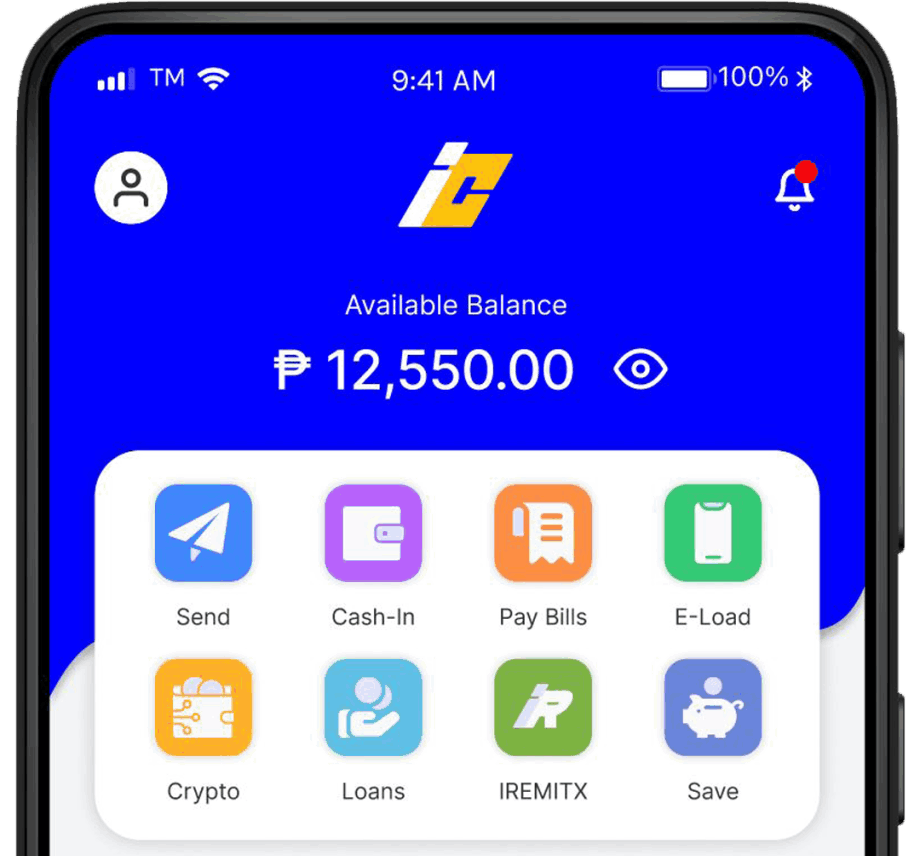
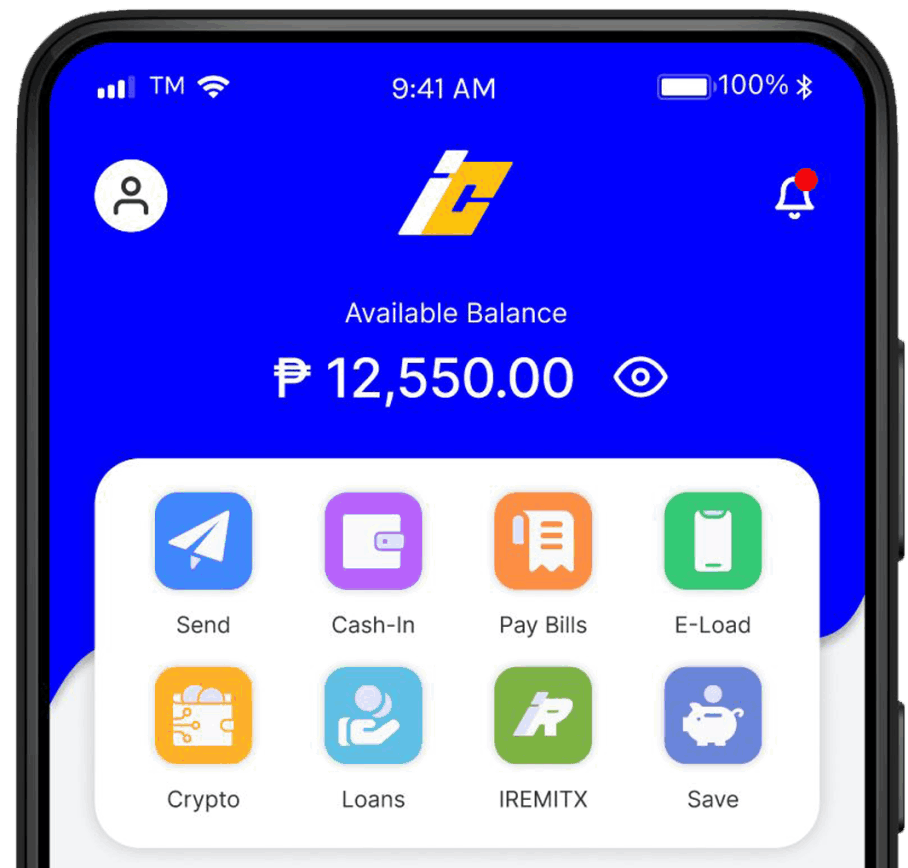
1

diff --git a/ourmerchants.html b/ourmerchants.html
@@ -438,15 +438,15 @@
                     <h2 class="mbr-section-title mbr-fonts-style display-2">
                         Onboarding Process</h2>
                 </div>
-                <div id="bootstrap-accordion_7" class="panel-group accordionStyles accordion" role="tablist" aria-multiselectable="true">
+                <div id="bootstrap-accordion_34" class="panel-group accordionStyles accordion" role="tablist" aria-multiselectable="true">
                     <div class="card">
                         <div class="card-header" role="tab" id="headingOne">
-                            <a role="button" class="panel-title" data-toggle="collapse" data-bs-toggle="collapse" data-core="" href="#collapse1_7" aria-expanded="false" aria-controls="collapse1">
+                            <a role="button" class="panel-title" data-toggle="collapse" data-bs-toggle="collapse" data-core="" href="#collapse1_34" aria-expanded="false" aria-controls="collapse1">
                                 <h4 class="panel-title-edit mbr-fonts-style display-5">Mutual Non-Disclosure Agreement (MNDA)</h4>
                                 <span class="sign mbr-iconfont mobi-mbri-plus mobi-mbri"></span>
                             </a>
                         </div>
-                        <div id="collapse1_7" class="panel-collapse noScroll collapse show" role="tabpanel" aria-labelledby="headingOne" data-parent="#accordion" data-bs-parent="#bootstrap-accordion_7">
+                        <div id="collapse1_34" class="panel-collapse noScroll collapse show" role="tabpanel" aria-labelledby="headingOne" data-parent="#accordion" data-bs-parent="#bootstrap-accordion_34">
                             <div class="panel-body">
                                 <p class="mbr-fonts-style panel-text display-4">Sign the MNDA to ensure confidentiality and secure collaboration between both parties.<br></p>
                             </div>
@@ -454,12 +454,12 @@
                     </div>
                     <div class="card">
                         <div class="card-header" role="tab" id="headingTwo">
-                            <a role="button" class="panel-title collapsed" data-toggle="collapse" data-bs-toggle="collapse" data-core="" href="#collapse2_7" aria-expanded="false" aria-controls="collapse2">
+                            <a role="button" class="panel-title collapsed" data-toggle="collapse" data-bs-toggle="collapse" data-core="" href="#collapse2_34" aria-expanded="false" aria-controls="collapse2">
                                 <h4 class="panel-title-edit mbr-fonts-style display-5">Submit Business Documents</h4>
                                 <span class="sign mbr-iconfont mobi-mbri-plus mobi-mbri"></span>
                             </a>
                         </div>
-                        <div id="collapse2_7" class="panel-collapse noScroll collapse" role="tabpanel" aria-labelledby="headingTwo" data-parent="#accordion" data-bs-parent="#bootstrap-accordion_7">
+                        <div id="collapse2_34" class="panel-collapse noScroll collapse" role="tabpanel" aria-labelledby="headingTwo" data-parent="#accordion" data-bs-parent="#bootstrap-accordion_34">
                             <div class="panel-body">
                                 <p class="mbr-fonts-style panel-text display-4"><strong>Sole Proprietorship</strong><br>- DTI Registration<br>- Government-issued ID<br><br><strong>Partnership and Corporation</strong><br>- SEC Certificate of Incorporation<br>- Articles of Incorporation and By-Laws<br>
 -&nbsp;Specimen of signature or biometrics of the authorized signatures<br>- Latest General Information Sheet<br>-&nbsp;1 Valid government-issued IDs of the authorized signatories, board of directors, ultimate beneficial owners and principal officers<br>-&nbsp;Board or Partner’s Resolution</p>
@@ -468,12 +468,12 @@
                     </div>
                     <div class="card">
                         <div class="card-header" role="tab" id="headingThree">
-                            <a role="button" class="panel-title collapsed" data-toggle="collapse" data-bs-toggle="collapse" data-core="" href="#collapse3_7" aria-expanded="false" aria-controls="collapse3">
+                            <a role="button" class="panel-title collapsed" data-toggle="collapse" data-bs-toggle="collapse" data-core="" href="#collapse3_34" aria-expanded="false" aria-controls="collapse3">
                                 <h4 class="panel-title-edit mbr-fonts-style display-5">Exchange of Reference Materials</h4>
                                 <span class="sign mbr-iconfont mobi-mbri-plus mobi-mbri"></span>
                             </a>
                         </div>
-                        <div id="collapse3_7" class="panel-collapse noScroll collapse" role="tabpanel" aria-labelledby="headingThree" data-parent="#accordion" data-bs-parent="#bootstrap-accordion_7">
+                        <div id="collapse3_34" class="panel-collapse noScroll collapse" role="tabpanel" aria-labelledby="headingThree" data-parent="#accordion" data-bs-parent="#bootstrap-accordion_34">
                             <div class="panel-body">
                                 <p class="mbr-fonts-style panel-text display-4">
                                     Share relevant materials and resources that provide insights into each other's operations and requirements.</p>
@@ -482,12 +482,12 @@
                     </div>
                     <div class="card">
                         <div class="card-header" role="tab" id="headingFour">
-                            <a role="button" class="panel-title collapsed" data-toggle="collapse" data-bs-toggle="collapse" data-core="" href="#collapse4_7" aria-expanded="false" aria-controls="collapse4">
+                            <a role="button" class="panel-title collapsed" data-toggle="collapse" data-bs-toggle="collapse" data-core="" href="#collapse4_34" aria-expanded="false" aria-controls="collapse4">
                                 <h4 class="panel-title-edit mbr-fonts-style display-5">Memorandum of Agreement or Contract</h4>
                                 <span class="sign mbr-iconfont mobi-mbri-plus mobi-mbri"></span>
                             </a>
                         </div>
-                        <div id="collapse4_7" class="panel-collapse noScroll collapse" role="tabpanel" aria-labelledby="headingFour" data-parent="#accordion" data-bs-parent="#bootstrap-accordion_7">
+                        <div id="collapse4_34" class="panel-collapse noScroll collapse" role="tabpanel" aria-labelledby="headingFour" data-parent="#accordion" data-bs-parent="#bootstrap-accordion_34">
                             <div class="panel-body">
                                 <p class="mbr-fonts-style panel-text display-4">
                                     Formalize the partnership through a comprehensive agreement or contract, outlining terms, responsibilities, and benefits.</p>

diff --git a/index.html b/index.html
@@ -95,7 +95,7 @@
             </div>
             <div class="col-lg-6 col-md-7 col-sm-9 col-12 align-self-end">
                     <div class="image_block">
-                <img src="assets/images/dashboard-2-803x1689.png" alt="iCASH Mobile Wallet" title="">
+                <img src="assets/images/dashboard-highres-920x1904.png" alt="iCASH Mobile Wallet" title="">
                         </div>
             </div>
         </div>
@@ -210,7 +210,7 @@
                 </div>
             </div>
             <div class="col-lg-4 col-md-7 md-pb">
-                <img src="assets/images/dashboard-803x1689.png" alt="iCASH Mobile Wallet">
+                <img src="assets/images/dashboard-highres-816x1689.png" alt="iCASH Mobile Wallet">
             </div>
             <div class="col-lg-4 col-md-7 col2 align-right my-auto">
                 <div class="row justify-content-center">
